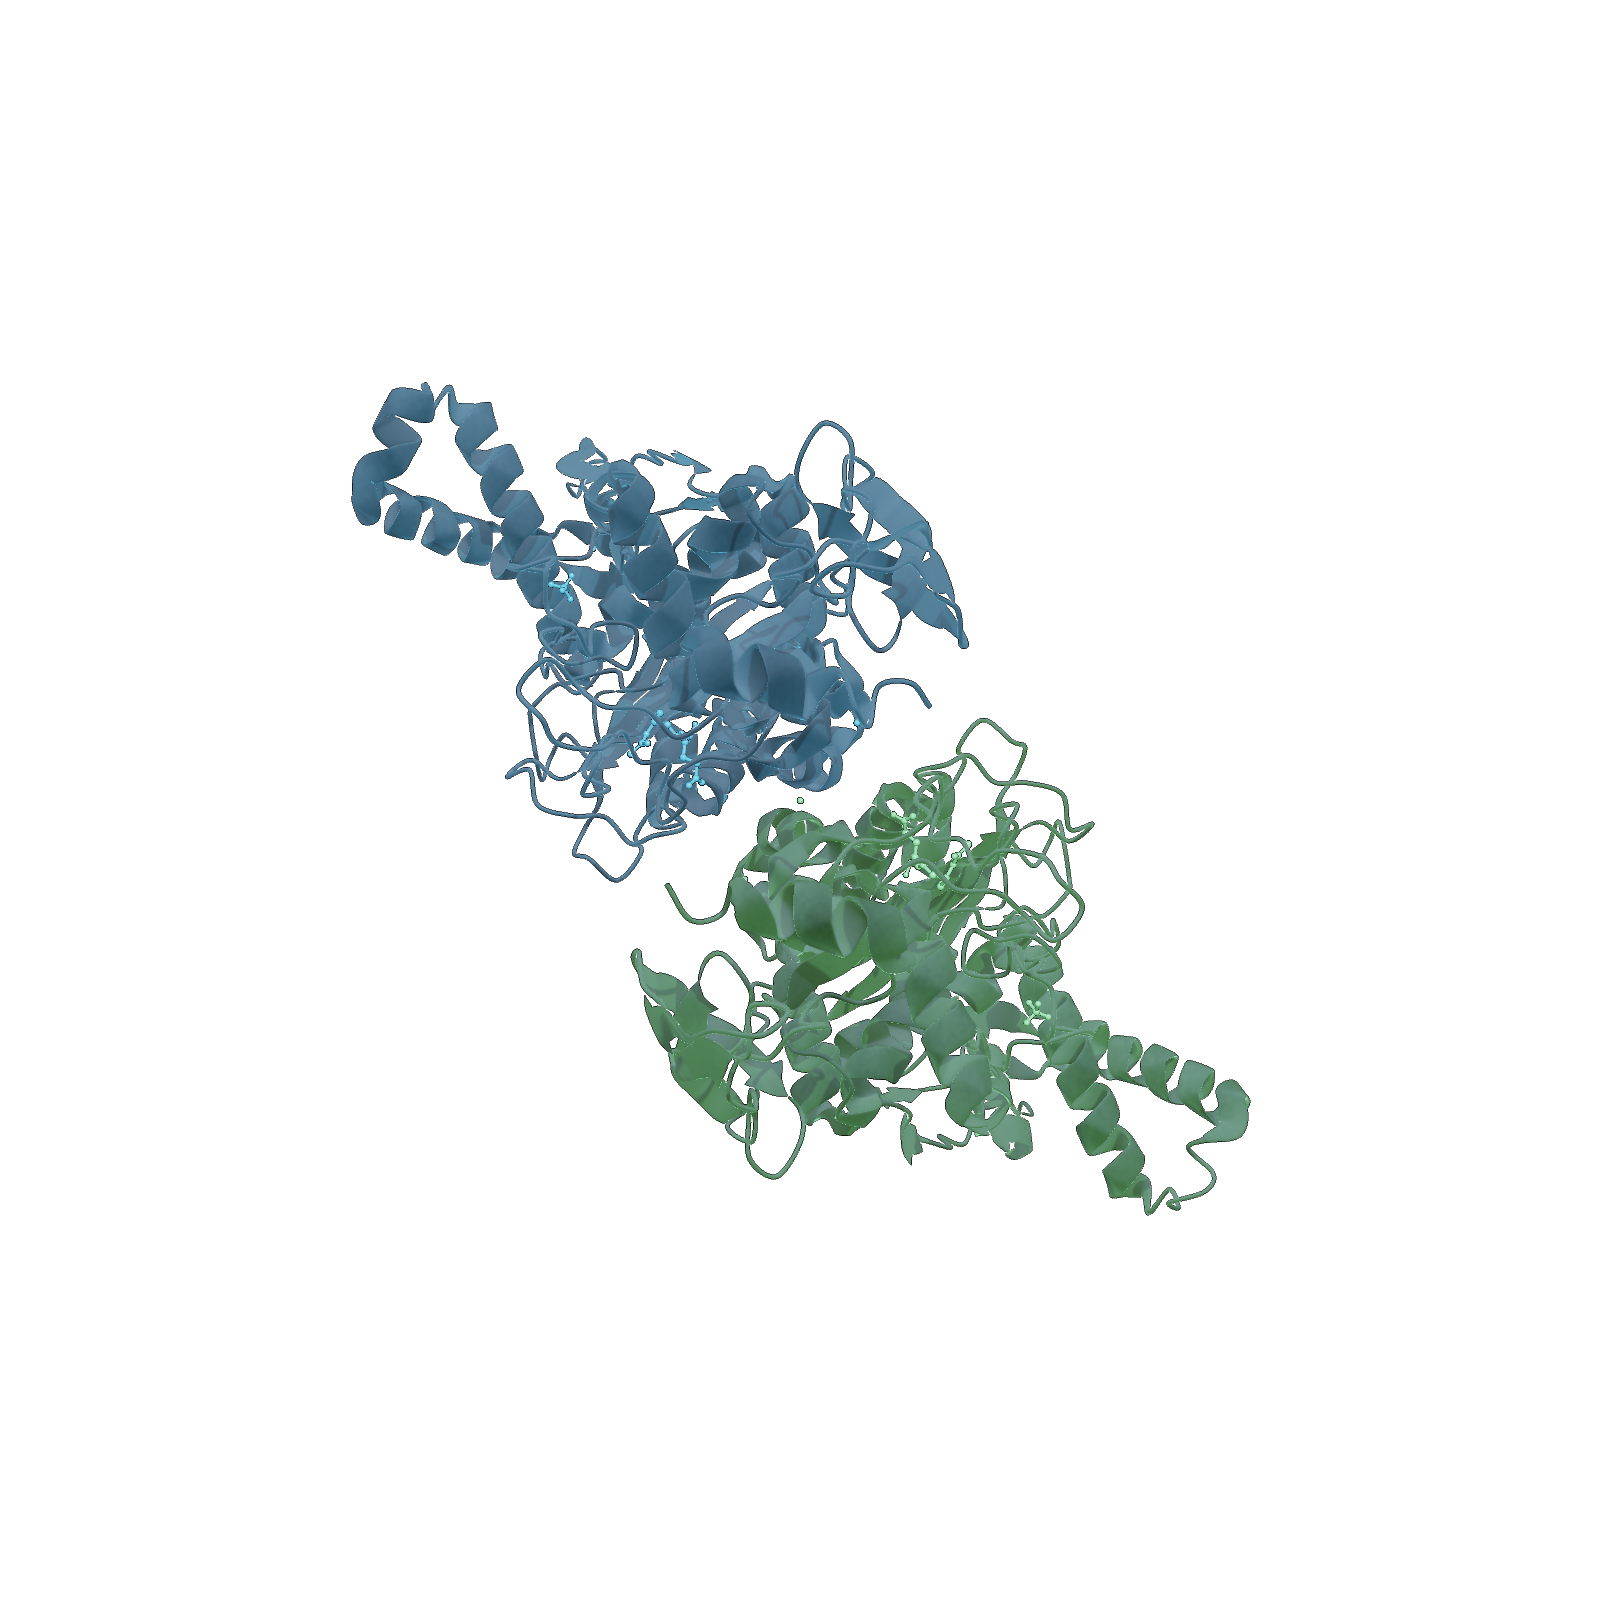
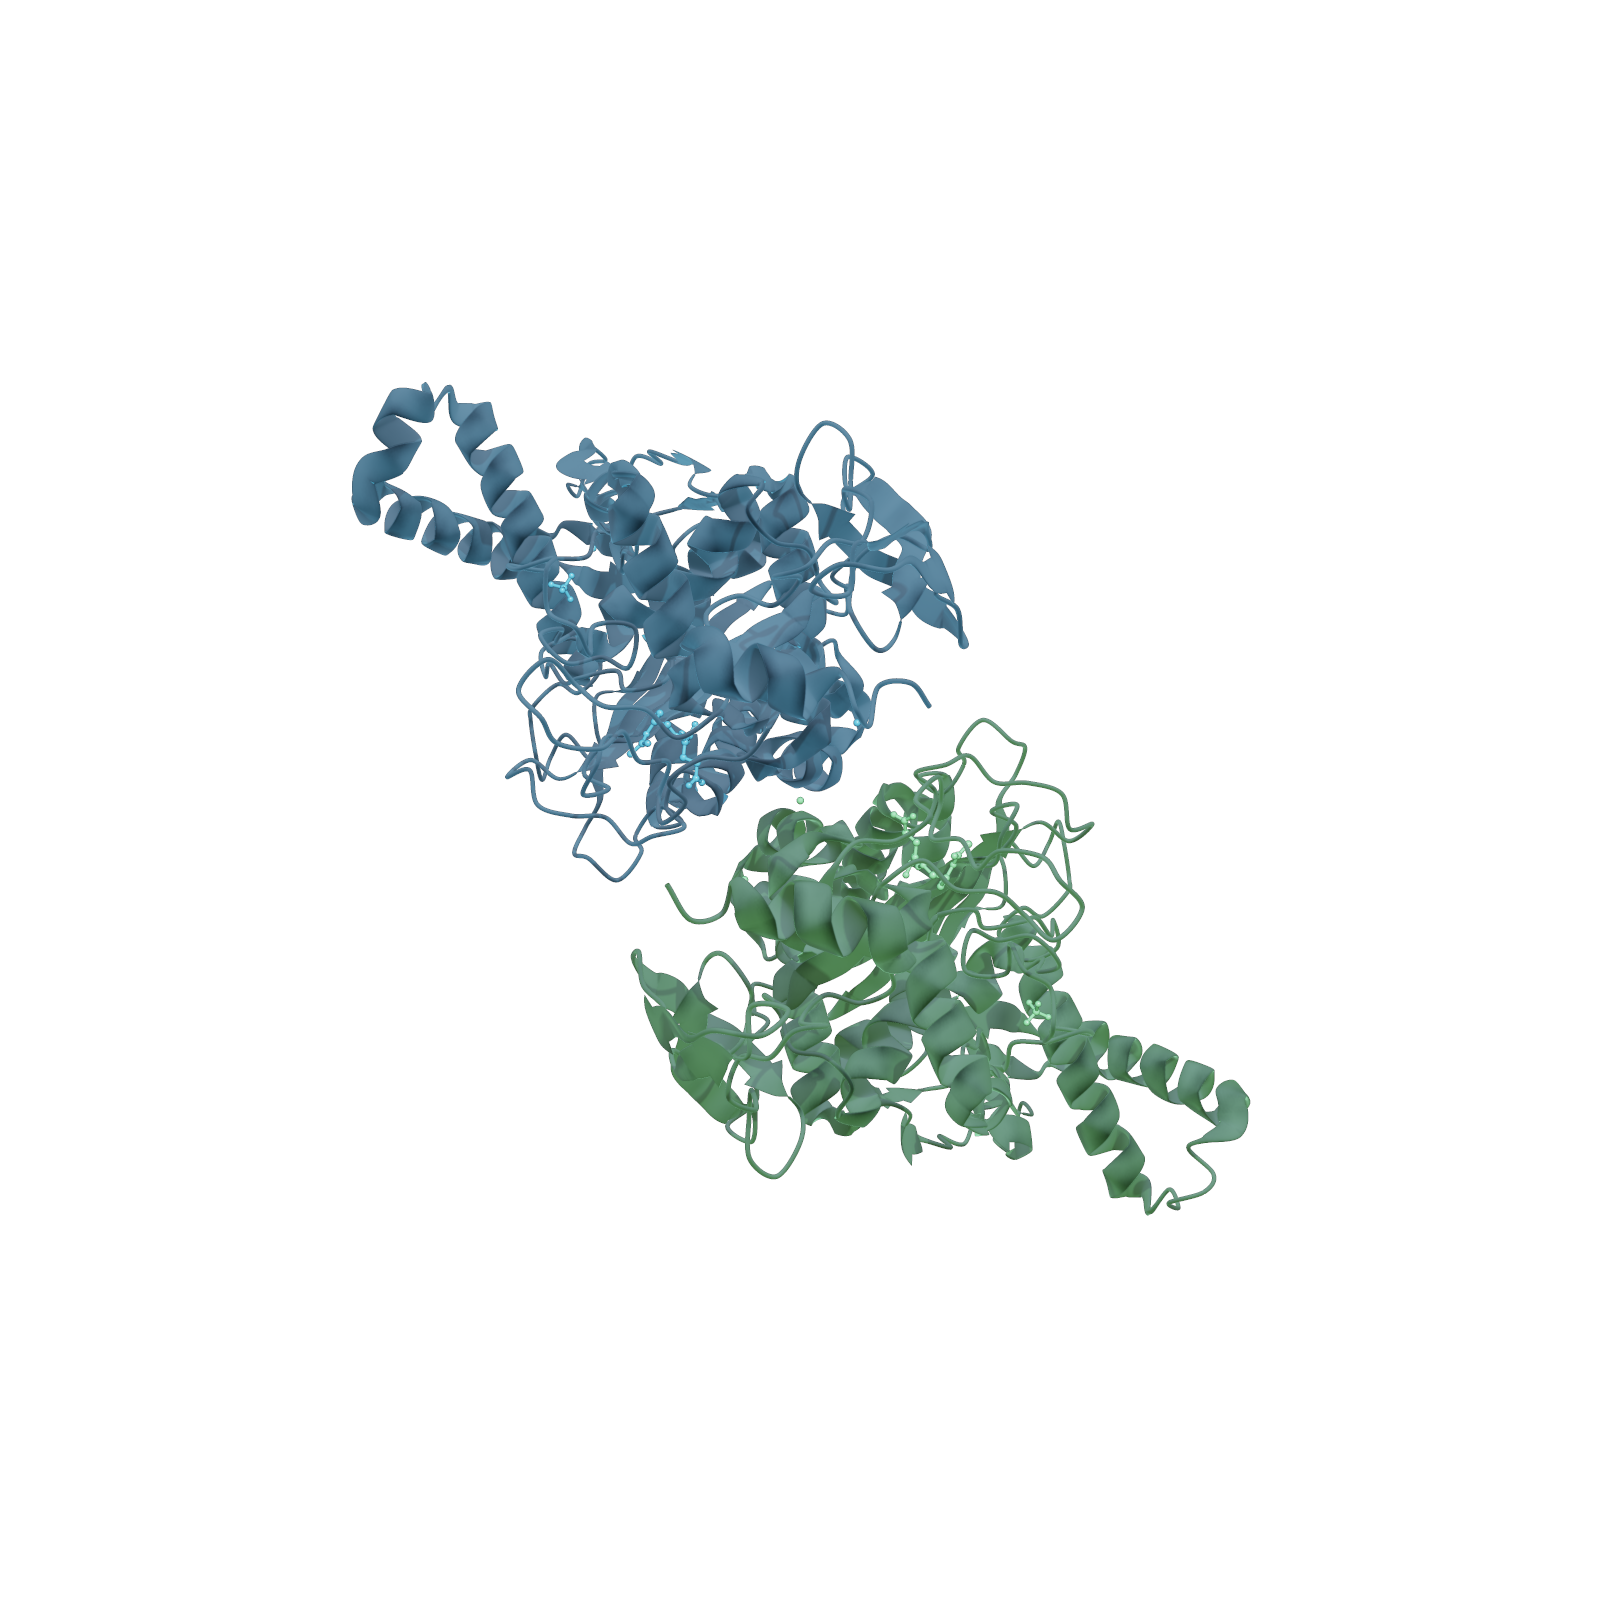
docs: document render/png and export settings; refresh showcase images
Add an Image Export section (png + render) and a High-Quality Export
settings table to MANUAL.md, note the render command in the README features
and quick start, and regenerate the README showcase images with the new
supersampled render path.

diff --git a/MANUAL.md b/MANUAL.md
@@ -276,6 +276,41 @@ set surface_quality, 0.3
 set roughness, 0.6
 ```
 
+### png / screenshot
+
+Save a screenshot of the current scene at the **window resolution** (fast; the
+egui toolbar is excluded).
+
+```
+png figure.png
+```
+
+### render
+
+Render a **high-quality, high-resolution figure** offscreen and save it as a
+PNG, independent of the window size. The scene is drawn at
+`antialias`× supersampled resolution and downsampled for strong anti-aliasing
+of surfaces, ribbons, and bonds; the export also uses a higher-resolution
+shadow map and more ambient-occlusion samples than the live view.
+
+```
+render figure.png              # uses the current window size
+render figure.png, 2400        # 2400 × 2400
+render figure.png, 3000, 2000  # 3000 × 2000 (aspect preserved, not stretched)
+```
+
+Combine with the export settings below for publication figures:
+
+```
+set antialias, 3               # 3× supersampling (crisper edges)
+set transparent_bg, 1          # background alpha = 0 (for compositing)
+set dof, 0.6                   # depth-of-field focal blur
+render figure.png, 3000, 3000
+```
+
+A memory cap automatically lowers the supersample factor for very large
+outputs.
+
 ### help / h / ?
 
 Print the command reference.
@@ -427,6 +462,19 @@ set <name>, <value>
 | `shadow_strength` | `shadow` | 0.0 - 1.0 | 0.4 | Shadow darkness (0=no shadow) |
 | `bloom_threshold` | | >= 0.0 | 1.0 | Bloom luminance threshold |
 | `bloom_intensity` | `bloom` | >= 0.0 | 0.0 | Bloom glow intensity (0=off) |
+| `ssao_samples` | | 8 - 64 | 16 | Ambient-occlusion sample count (`render` uses ≥32) |
+
+### High-Quality Export (`render`)
+
+These affect the `render` command (offline figures); see also [render](#render).
+
+| Setting | Range | Default | Description |
+|---------|-------|---------|-------------|
+| `antialias` | 1 - 4 | 2 | Supersampling factor for `render` (higher = smoother, slower) |
+| `transparent_bg` | 0 / 1 | 0 | Transparent (alpha) background in the exported PNG |
+| `dof` | 0.0 - 1.0 | 0.0 | Depth-of-field strength (0 = off) |
+| `dof_aperture` | >= 0.0 | 1.0 | Depth-of-field blur scale |
+| `dof_focus` | >= 0.0 (A) | 0 | Focus distance; 0 = auto (camera-to-center) |
 
 ### Surface Parameters
 

diff --git a/README.md b/README.md
@@ -30,7 +30,10 @@ sub-second cold start, built on [wgpu](https://wgpu.rs/).
   sticks + ligand–protein H-bonds), and Pocket Surface.
 - **Docking trace playback** — step through an AutoDock-style optimization
   trajectory (`docktrace`).
-- **PNG export** — `png <file>` for scriptable, headless-style screenshots.
+- **PNG export** — `png <file>` for a quick window-resolution screenshot, or
+  `render <file> [, W [, H]]` for high-resolution, supersampled
+  **publication figures** with optional transparent background and depth of
+  field.
 - **File formats** — PDB and PDBQT.
 
 <p align="center">
@@ -115,6 +118,10 @@ rusmol tests/dock_trace/receptor.pdbqt tests/dock_trace/ligand.pdbqt \
 # Fully scripted, headless-style: render to PNG and quit
 rusmol tests/fixtures/2je5.pdb \
   -c "show surface; color chain; bg white; png out.png; quit"
+
+# High-resolution publication figure (3x supersampled, 2400x2400)
+rusmol tests/fixtures/2je5.pdb \
+  -c "show surface; color chain; bg white; set antialias,3; render figure.png, 2400; quit"
 ```
 
 RusMol opens a 3D window and an interactive prompt in the terminal. Type
